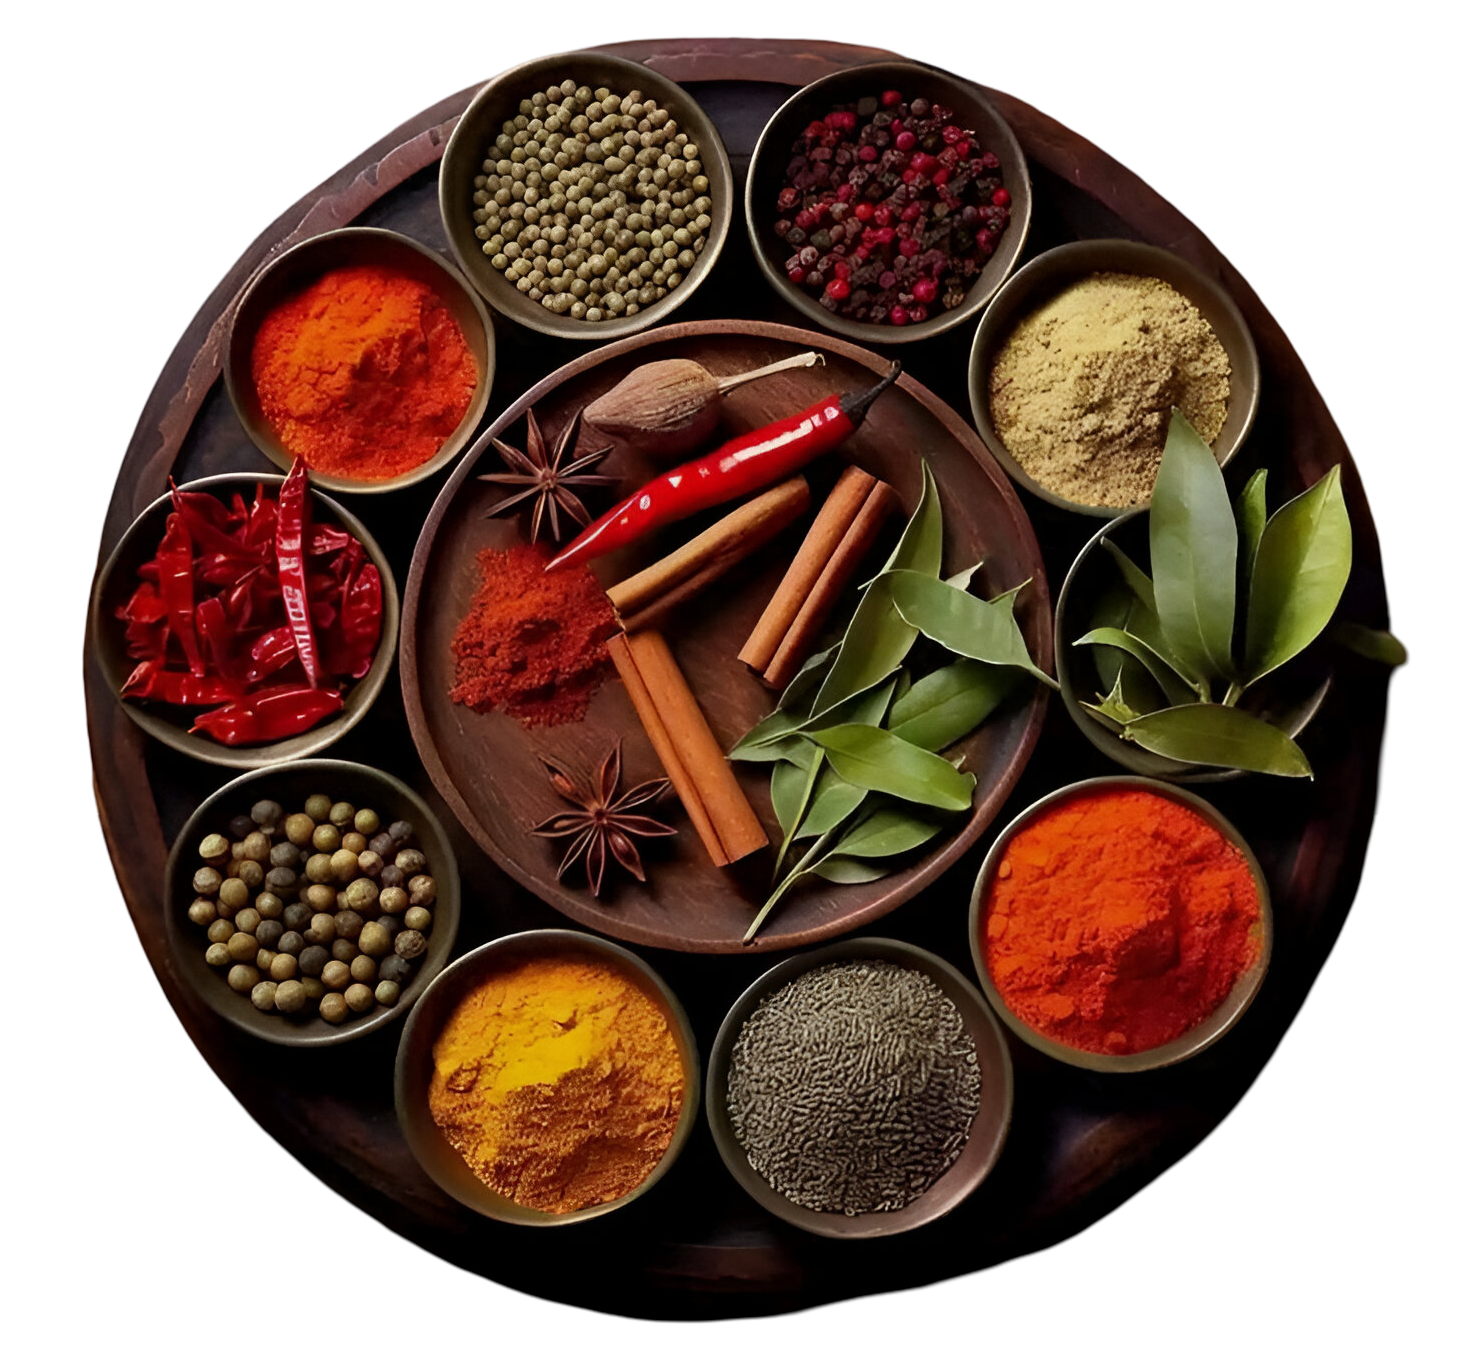
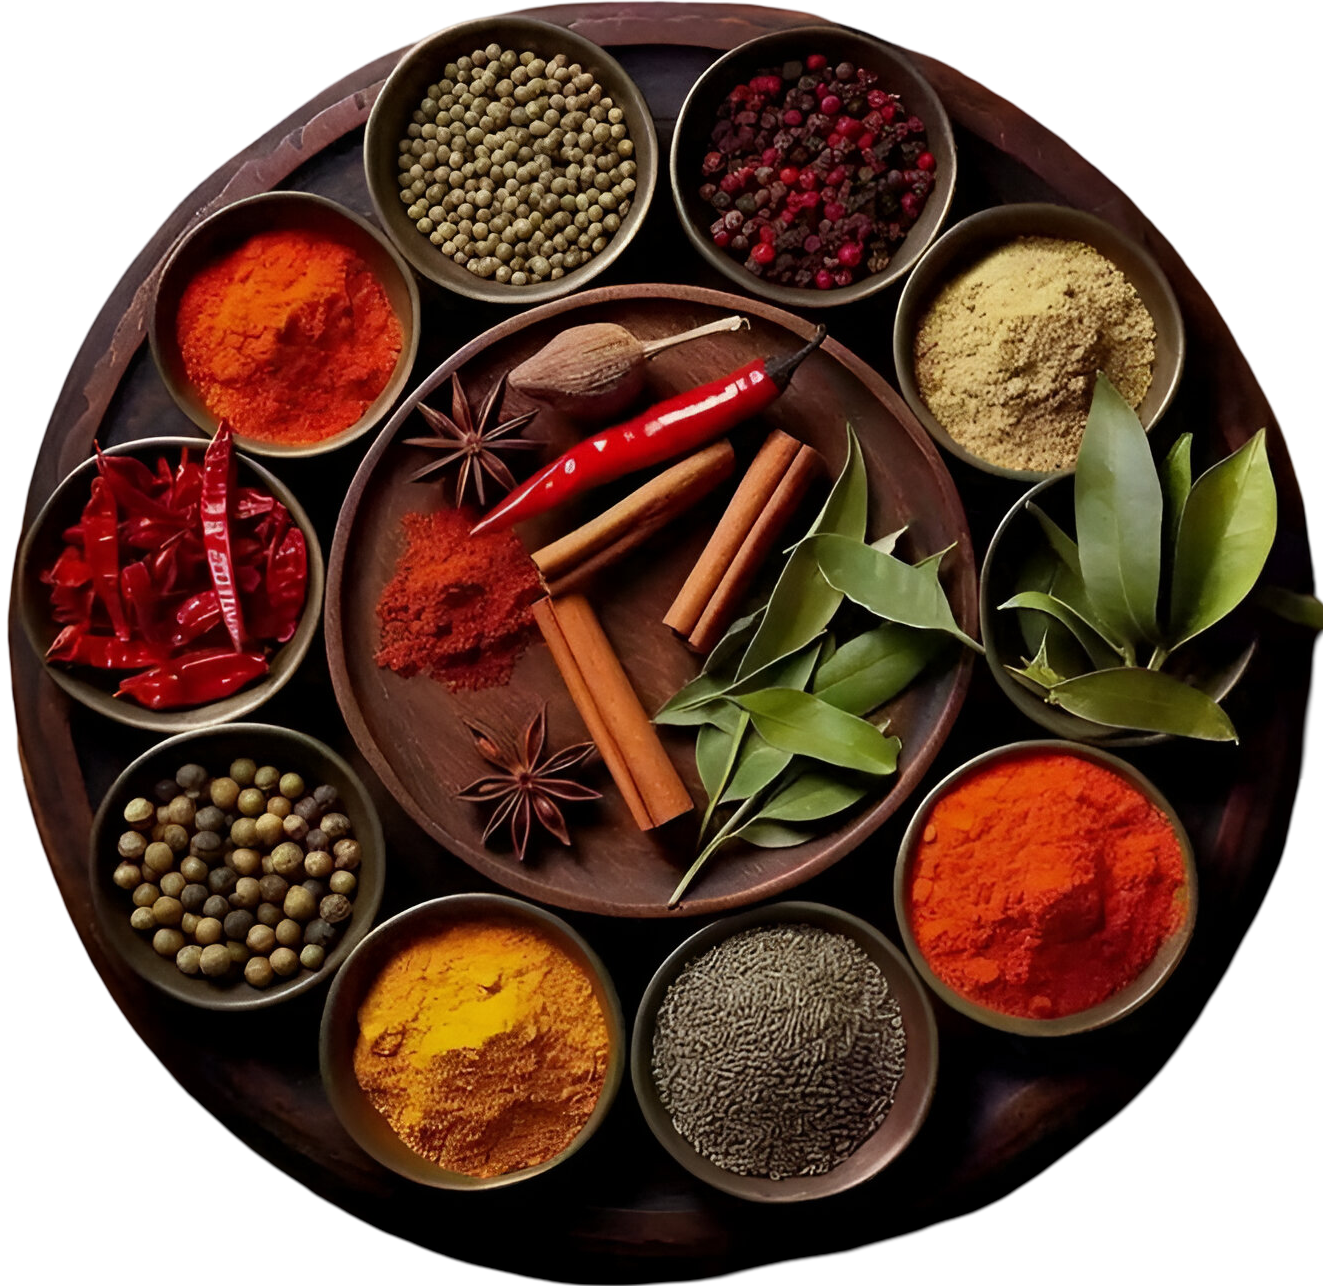
rotate transition

diff --git a/src/data/products.ts b/src/data/products.ts
@@ -73,3 +73,55 @@ export const powderProducts: Product[] = [
     category: 'Spices',
   },
 ];
+
+
+export const spiceProducts: Product[] = [
+  {
+    id: 'oregano-001',
+    name: 'Premium Oregano',
+    price: 5.99,
+    image: img19,
+    description: 'Aromatic oregano perfect for pizzas and pastas.',
+    category: 'Herbs',
+  },
+  {
+    id: 'basil-002',
+    name: 'Fresh Basil',
+    price: 4.5,
+    image: img22,
+    description: 'Sweet basil leaves for delightful sauces.',
+    category: 'Herbs',
+  },
+  {
+    id: 'pepper-003',
+    name: 'Black Peppercorns',
+    price: 6.75,
+    image: img24,
+    description: 'Whole peppercorns for freshly ground flavor.',
+    category: 'Spices',
+  },
+  {
+    id: 'paprika-004',
+    name: 'Smoked Paprika',
+    price: 5.25,
+    image: img25,
+    description: 'Rich, smoky paprika for depth and color.',
+    category: 'Spices',
+  },
+  {
+    id: 'cumin-005',
+    name: 'Ground Cumin',
+    price: 3.99,
+    image: img24,
+    description: 'Earthy cumin perfect for curries and stews.',
+    category: 'Spices',
+  },
+  {
+    id: 'turmeric-006',
+    name: 'Organic Turmeric',
+    price: 4.75,
+    image: img25,
+    description: 'Golden turmeric with bright flavor and color.',
+    category: 'Spices',
+  },
+];

diff --git a/src/pages/Products.tsx b/src/pages/Products.tsx
@@ -14,7 +14,8 @@ import gallery2 from '../assets/gallery/gallery2.png';
 import './Products.css';
 import Icon from '../components/Common/Icon/Icon';
 
-export default function Products() {
+export default function Products({ onCarouselChange }: { onCarouselChange?: (index: number) => void }) {
+ 
   const [products, setProducts] = useState<Product[]>([]);
   const [loading, setLoading] = useState(true);
 
@@ -23,8 +24,22 @@ export default function Products() {
 
   const activeKey = categories[index];
 
-  const next = () => setIndex((i) => (i + 1) % categories.length);
-  const prev = () => setIndex((i) => (i - 1 + categories.length) % categories.length);
+ 
+  const next = () => {
+    setIndex((i) => {
+      const newIndex = (i + 1) % categories.length;
+      onCarouselChange?.(newIndex);
+      return newIndex;
+    });
+  };
+
+  const prev = () => {
+    setIndex((i) => {
+      const newIndex = (i - 1 + categories.length) % categories.length;
+      onCarouselChange?.(newIndex);
+      return newIndex;
+    });
+  };
 
   useEffect(() => {
     // Simulate backend fetch with 5-second delay

diff --git a/src/components/Header/Header.tsx b/src/components/Header/Header.tsx
@@ -12,8 +12,10 @@ import './Header.css';
 import home1 from '../../assets/home/home2.png';
 import home2 from '../../assets/home/home3.png';
 
-export default function Header() {
+export default function Header({ carouselIndex = 0 }: { carouselIndex?: number }) {
     const { totalItems } = useCart();
+    const rotation = carouselIndex * 30;
+
     return (
         <header className="site-header">
             <div className="header-inner">
@@ -35,7 +37,7 @@ export default function Header() {
                 </nav> */}
             </div>
              <div className='top-images-container'>
-                <div className="top-image-1-container">   <img src={home1} className="top-image-1" /></div>
+                <div className="top-image-1-container" >   <img src={home1} className="top-image-1" style={{ transform: `rotate(${rotation}deg)` }}/></div>
      
                 <div className="top-image-2-container"> <img src={home2} className="top-image-2" /></div>
      

diff --git a/src/App.tsx b/src/App.tsx
@@ -4,17 +4,19 @@ import Products from './pages/Products'
 import Cart from './pages/Cart'
 import { Route, Routes, useLocation } from 'react-router-dom'
 import Footer from './components/Footer/Footer'
+import { useState } from 'react'
 
 export default function App() {
 
+    const [carouselIndex, setCarouselIndex] = useState(0);
   const location = useLocation();
   const hideHeader = location.pathname === '/cart';
   return (
     <div className="app">
-      {!hideHeader && <Header />}
+      {!hideHeader && <Header carouselIndex={carouselIndex} />}
       <main className="container">
         <Routes>
-          <Route path="/" element={<Products />} />
+          <Route path="/" element={<Products onCarouselChange={setCarouselIndex} />} />
           <Route path="/cart" element={<Cart />} />
         </Routes>
       </main>

diff --git a/src/components/Header/Header.css b/src/components/Header/Header.css
@@ -30,9 +30,11 @@ margin-bottom: -125px;
         top: -120px;
         left: -50px;
         width: 50%;
-
+ 
         & img {
-            width: 250px;
+            width: 235px;
+            transition: transform 0.6s ease-in-out;
+    transform-origin: center;
         }
 
     }

diff --git a/src/data/thumbnails.ts b/src/data/thumbnails.ts
@@ -25,3 +25,12 @@ export const powderThumbnails: string[] = [
   thumb4,
   thumb5,
 ];
+
+
+export const spiceThumbnails: string[] = [
+  
+  thumb3,
+  thumb4,
+  thumb2,
+  thumb5,
+];
